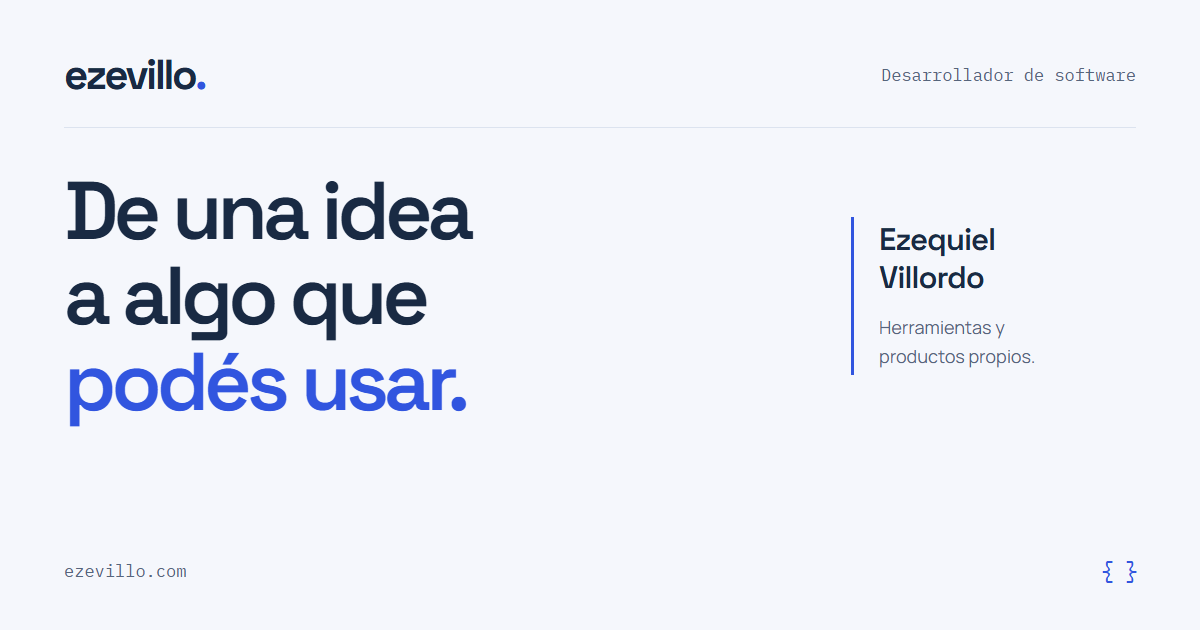
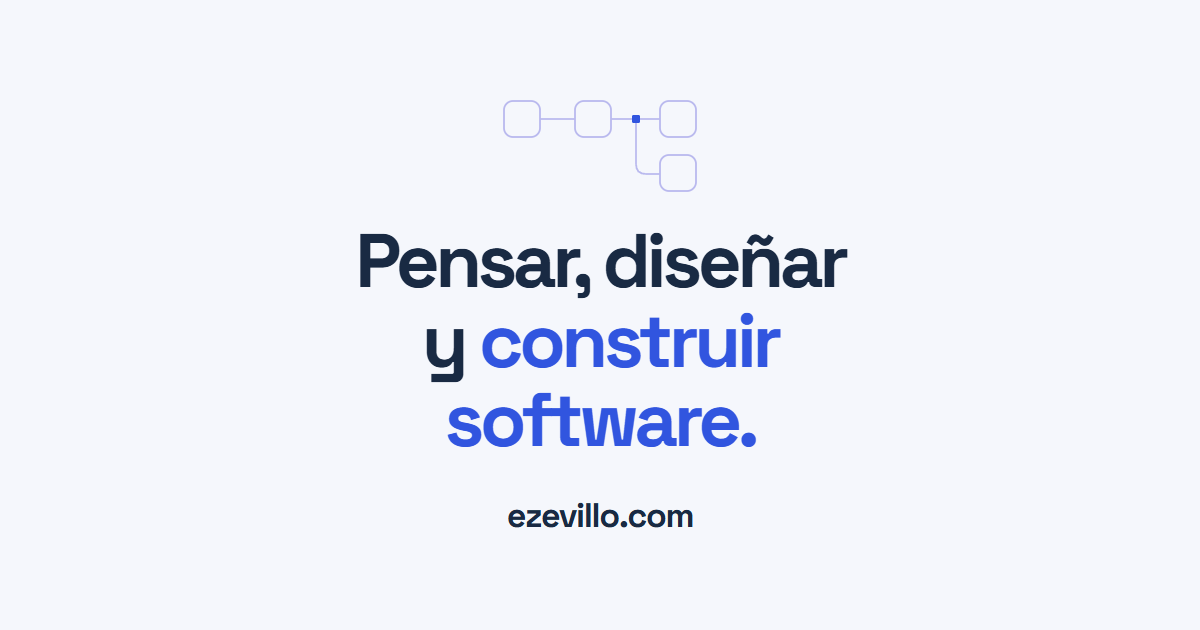
feat: actualizar frase principal y portada social

diff --git a/public/index.html b/public/index.html
@@ -5,24 +5,24 @@
     <meta name="viewport" content="width=device-width, initial-scale=1">
     <meta name="theme-color" content="#f5f7fc">
     <title>Ezequiel Villordo · Desarrollador de software</title>
-    <meta name="description" content="Soy Ezequiel Villordo, desarrollador de software. Creo herramientas y productos propios a partir de problemas que me interesa resolver. Aprendiendo, aplicando y enseñando cómo usar IA.">
+    <meta name="description" content="Pensar, diseñar y construir software. Soy Ezequiel Villordo, desarrollador de software. Herramientas y productos propios. Aprendiendo, aplicando y enseñando cómo usar IA.">
     <link rel="canonical" href="https://ezevillo.com/">
     <meta property="og:type" content="website">
     <meta property="og:locale" content="es_AR">
     <meta property="og:title" content="Ezequiel Villordo · Desarrollador de software">
-    <meta property="og:description" content="De una idea a algo que podés usar. Desarrollo de software, herramientas y productos propios. Aprendiendo, aplicando y enseñando cómo usar IA.">
+    <meta property="og:description" content="Pensar, diseñar y construir software. Herramientas y productos propios. Aprendiendo, aplicando y enseñando cómo usar IA.">
     <meta property="og:url" content="https://ezevillo.com/">
     <meta property="og:site_name" content="ezevillo">
-    <meta property="og:image" content="https://ezevillo.com/assets/og-portfolio.png">
+    <meta property="og:image" content="https://ezevillo.com/assets/og-portfolio.png?v=20261106">
     <meta property="og:image:type" content="image/png">
     <meta property="og:image:width" content="1200">
     <meta property="og:image:height" content="630">
-    <meta property="og:image:alt" content="Ezequiel Villordo, desarrollador de software. De una idea a algo que podés usar.">
+    <meta property="og:image:alt" content="Pensar, diseñar y construir software. ezevillo.com, portfolio de Ezequiel Villordo.">
     <meta name="twitter:card" content="summary_large_image">
     <meta name="twitter:title" content="Ezequiel Villordo · Desarrollador de software">
-    <meta name="twitter:description" content="De una idea a algo que podés usar. Herramientas y productos propios.">
-    <meta name="twitter:image" content="https://ezevillo.com/assets/og-portfolio.png">
-    <meta name="twitter:image:alt" content="Ezequiel Villordo, desarrollador de software. De una idea a algo que podés usar.">
+    <meta name="twitter:description" content="Pensar, diseñar y construir software. Herramientas y productos propios.">
+    <meta name="twitter:image" content="https://ezevillo.com/assets/og-portfolio.png?v=20261106">
+    <meta name="twitter:image:alt" content="Pensar, diseñar y construir software. ezevillo.com, portfolio de Ezequiel Villordo.">
     <link rel="icon" href="/assets/favicon.svg" type="image/svg+xml">
     <link rel="stylesheet" href="/styles.css">
     <script type="application/ld+json">
@@ -46,7 +46,7 @@
       <section class="hero container" id="inicio" aria-labelledby="hero-title">
         <div class="hero-copy">
           <p class="eyebrow"><span class="small-bracket">{ }</span> Ezequiel Villordo · Buenos Aires, AR</p>
-          <h1 id="hero-title">De una idea<br>a algo que<br><span class="highlight">podés usar.</span></h1>
+          <h1 id="hero-title">Pensar, diseñar<br>y <span class="highlight">construir software.</span></h1>
           <p class="hero-description">Soy Ezequiel, <strong>desarrollador de software</strong>. Creo herramientas y productos propios a partir de problemas que me interesa resolver.</p>
           <div class="hero-actions">
             <a class="button button-primary" href="#proyectos">Explorá mis proyectos</a>

diff --git a/design/og.html b/design/og.html
@@ -2,29 +2,33 @@
 <html lang="es-AR">
 <meta charset="utf-8">
 <title>Portada social · ezevillo</title>
-<!-- Exportar el viewport de 1200 × 630 como public/assets/og-portfolio.png una vez cargadas las fuentes. -->
+<!-- Exportar a 1200 × 630 después de cargar las fuentes.
+     El contenido esencial queda dentro del recorte central de 630 × 630 (x: 285–915).
+     Destino: public/assets/og-portfolio.png. Al cambiarlo, versionar su URL en index.html. -->
 <style>
 @font-face{font-family:Space;src:url('../public/assets/space-grotesk-latin.woff2');font-weight:300 700}
 @font-face{font-family:Manrope;src:url('../public/assets/manrope-latin.woff2');font-weight:200 800}
-@font-face{font-family:Mono;src:url('../public/assets/ibm-plex-mono-latin.woff2')}
-*{box-sizing:border-box}html,body{width:1200px;height:630px;margin:0;overflow:hidden}
-body{background:#f5f7fc;color:#192a43;font-family:Manrope,sans-serif;padding:48px 64px}
-header{display:flex;align-items:center;justify-content:space-between;border-bottom:1px solid #dce3ef;padding-bottom:26px}
-.brand{font-family:Space,sans-serif;font-size:42px;font-weight:700;letter-spacing:-2.5px}.dot{color:#3155df}
-.role{font-family:Mono,monospace;font-size:17px;color:#56657c}
-main{padding-top:40px;display:flex;align-items:center;justify-content:space-between;gap:38px}
-h1{margin:0;font-family:Space,sans-serif;font-size:82px;font-weight:600;line-height:1.04;letter-spacing:-5px}
-h1 span{color:#3155df}
-.signature{width:285px;border-left:3px solid #3155df;padding:4px 0 4px 25px}
-.name{margin:0;font-family:Space,sans-serif;font-size:31px;font-weight:600;line-height:1.22;letter-spacing:-1px}
-.description{margin:17px 0 0;font-size:18px;line-height:1.6;color:#56657c}
-footer{position:absolute;left:64px;right:64px;bottom:43px;display:flex;align-items:center;justify-content:space-between;font-family:Mono,monospace;font-size:17px;color:#56657c}
-.braces{font-size:25px;color:#3155df;letter-spacing:-3px}
+*{box-sizing:border-box}
+html,body{width:1200px;height:630px;margin:0;overflow:hidden}
+body{display:grid;place-items:center;background:#f5f7fc;color:#192a43;font-family:Manrope,sans-serif}
+main{width:570px;text-align:center}
+.diagram{display:block;width:200px;height:100px;margin:0 auto 28px;color:#b9b9ee}
+h1{margin:0;font-family:Space,sans-serif;font-size:76px;font-weight:700;line-height:1.05;letter-spacing:-4.4px}
+.highlight{color:#3155df}
+.domain{margin:34px 0 0;font-family:Space,sans-serif;font-size:34px;font-weight:700;letter-spacing:-1.3px}
 </style>
-<header><div class="brand">ezevillo<span class="dot">.</span></div><div class="role">Desarrollador de software</div></header>
 <main>
-  <h1>De una idea<br>a algo que<br><span>podés usar.</span></h1>
-  <div class="signature"><p class="name">Ezequiel<br>Villordo</p><p class="description">Herramientas y<br>productos propios.</p></div>
+  <svg class="diagram" viewBox="0 0 200 100" fill="none" aria-hidden="true">
+    <g stroke="currentColor" stroke-width="1.8">
+      <path d="M40 26h35m36 0h49m-24 0v45q0 10 10 10h14"/>
+      <rect x="4" y="8" width="36" height="36" rx="9"/>
+      <rect x="75" y="8" width="36" height="36" rx="9"/>
+      <rect x="160" y="8" width="36" height="36" rx="9"/>
+      <rect x="160" y="62" width="36" height="36" rx="9"/>
+    </g>
+    <rect x="132" y="22" width="8" height="8" rx="1.5" fill="#3155df"/>
+  </svg>
+  <h1>Pensar, diseñar<br>y <span class="highlight">construir<br>software.</span></h1>
+  <p class="domain">ezevillo.com</p>
 </main>
-<footer><span>ezevillo.com</span><span class="braces" aria-hidden="true">{ }</span></footer>
 </html>

diff --git a/CONTENT-SOURCES.md b/CONTENT-SOURCES.md
@@ -21,6 +21,7 @@ Revisión de enlaces: 3 de noviembre de 2026. Las fuentes editoriales conservan 
 | LG V480: captura del panel nativo | Captura directa por ADB de la LG V480 conectada por el usuario; imagen completa de 1280 × 800, sin modificar, en public/assets/lg-v480-bitcoin-node.png |
 | LG V480: modelo de 2014, 1 GB de RAM, microSD de 32 GB y LineageOS 14.1 | Datos proporcionados por el usuario; capacidad de microSD y versión de LineageOS contrastadas con README.md de ../lg-v480-bitcoin-node. Bitcoin Core se presenta sin fijar versión por indicación del usuario |
 | Posicionamiento como desarrollador de software; experiencia backend y bancaria en «Sobre mí» | Ajuste editorial aprobado por el usuario en esta conversación |
+| Frase principal «Pensar, diseñar y construir software.» y referencia visual de nodos conectados | Frase e imagen proporcionadas por el usuario el 6 de noviembre de 2026; aplicadas a la portada y al OG |
 | Foco actual: aprender, aplicar y enseñar cómo usar IA | Actividad descrita por el usuario y redacción aprobada en esta conversación |
 | Lectura breve de proyectos, foco en software y enlace de IA aplicada a Git Review | Ajuste solicitado por el usuario el 15 de octubre de 2026; capacidades resumidas a partir de las fuentes anteriores. El recorrido generado por un agente está descrito en README.es.md de ../git-review-workflow |
 | Eliminación de «Cómo trabajo» | Ajuste editorial aprobado por el usuario en esta conversación |

diff --git a/README.md b/README.md
@@ -17,7 +17,9 @@ URLs anteriores. Los enlaces de los proyectos se verifican contra `config/sites.
 
 La portada social está en `public/assets/og-portfolio.png` (1200 × 630), con fuente
 editable en `design/og.html`. Capturar ese HTML a 1200 × 630 después de cargar las
-fuentes para regenerarla.
+fuentes para regenerarla. La frase y el dominio quedan dentro de los 630 × 630
+centrales para admitir miniaturas cuadradas. Al cambiar el PNG, actualizar la
+versión de su URL en `og:image` y `twitter:image` para renovar las cachés sociales.
 
 `npm run cloudflare:config` genera `public/_headers` con la CSP y su hash JSON-LD.
 `wrangler.jsonc` declara el Custom Domain de producción y un preview independiente.
